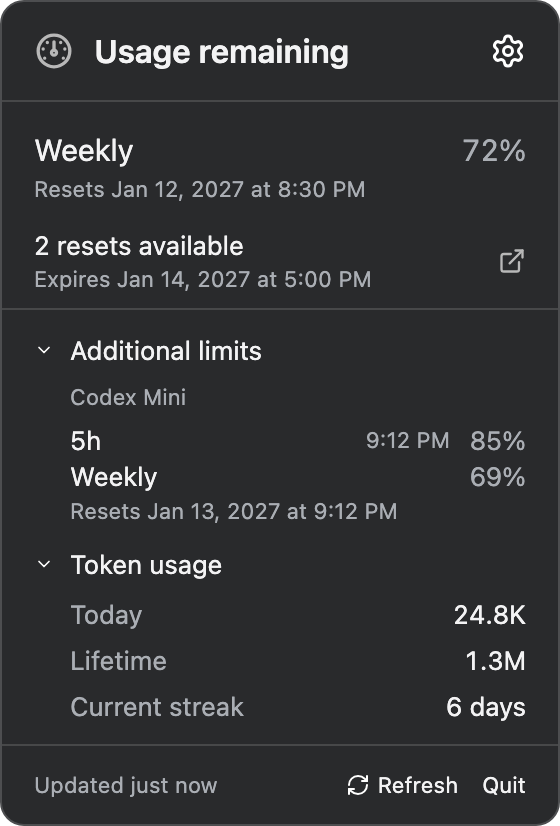
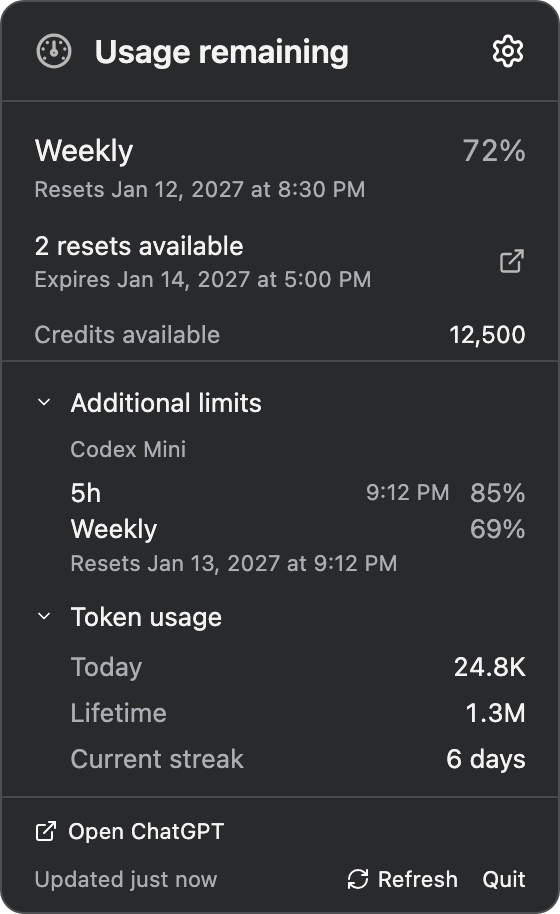
Refresh Pages previews for 1.0.35

diff --git a/Artwork/Screenshots/demo-source.html b/Artwork/Screenshots/demo-source.html
@@ -1,0 +1,121 @@
+<!doctype html>
+<html lang="en">
+<meta charset="utf-8">
+<title>ChatGPT Usage illustrative screenshots</title>
+<style>
+  * { box-sizing: border-box; }
+  body { margin: 24px; background: transparent; font-family: -apple-system, BlinkMacSystemFont, "Segoe UI", sans-serif; }
+  .shot { margin-bottom: 24px; overflow: hidden; }
+  .icon { display: inline-block; object-fit: contain; flex: none; }
+  .light-icon { filter: invert(1); }
+  .muted-icon { filter: invert(.72); }
+  .row { display: flex; align-items: center; }
+  .between { justify-content: space-between; }
+  .divider { height: 1px; background: #ffffff24; }
+
+  #macos-menu { zoom: 2; width: 280px; color: #f3f3f4; background: #292a2c; border: 1px solid #4d4e50; border-radius: 12px; font-size: 13px; }
+  .mac-header { height: 49px; padding: 0 16px; gap: 10px; font-size: 16px; font-weight: 600; }
+  .mac-header .settings { margin-left: auto; width: 18px; height: 18px; }
+  .mac-weekly { padding: 14px 16px 6px; }
+  .mac-weekly .row { font-size: 15px; line-height: 20px; }
+  .mac-weekly .muted { color: #aaaeb4; font-variant-numeric: tabular-nums; }
+  .mac-subline { margin-top: 3px; color: #aaaeb4; font-size: 11px; }
+  .mac-reset { padding: 8px 16px; font-size: 13px; }
+  .mac-reset .subline { margin-top: 3px; color: #aaaeb4; font-size: 11px; }
+  .mac-credits { padding: 6px 16px; font-size: 12px; }
+  .mac-credits .label { color: #aaaeb4; }
+  .mac-details { padding: 11px 16px; }
+  .mac-section-title { display: flex; align-items: center; gap: 8px; font-size: 13px; line-height: 18px; }
+  .mac-section-title .icon { width: 10px; height: 10px; }
+  .mac-section-body { margin: 8px 0 0 18px; }
+  .mac-section-body .name { color: #aaaeb4; font-size: 11px; margin-bottom: 6px; }
+  .mac-limit-row { font-size: 13px; line-height: 18px; }
+  .mac-limit-row .secondary { color: #aaaeb4; margin-left: auto; font-size: 11px; }
+  .mac-limit-row .value { color: #aaaeb4; width: 38px; text-align: right; font-variant-numeric: tabular-nums; }
+  .mac-limit-reset { margin-top: 2px; color: #aaaeb4; font-size: 11px; }
+  .mac-token { margin-top: 11px; }
+  .mac-token .mac-section-body { display: grid; gap: 7px; }
+  .mac-token .row { line-height: 16px; }
+  .mac-token .label { color: #aaaeb4; }
+  .mac-token .value { font-variant-numeric: tabular-nums; }
+  .mac-footer { padding: 10px 16px; font-size: 11px; }
+  .mac-open { display: flex; align-items: center; gap: 5px; margin-bottom: 11px; }
+  .mac-open .icon { width: 12px; height: 12px; }
+  .mac-footer-bottom { gap: 8px; }
+  .mac-footer .updated { color: #aaaeb4; white-space: nowrap; }
+  .mac-footer .actions { margin-left: auto; display: flex; align-items: center; gap: 12px; white-space: nowrap; }
+  .mac-footer .refresh { display: flex; align-items: center; gap: 4px; }
+  .mac-footer .refresh .icon { width: 12px; height: 12px; }
+
+  #windows-popup { zoom: 2; width: 330px; padding: 18px; color: #f0f1f4; background: #14171d; border: 1px solid #414650; border-radius: 14px; font-family: "Segoe UI", Arial, sans-serif; }
+  .win-header { gap: 10px; margin-bottom: 14px; font-size: 18px; font-weight: 600; }
+  .win-header .settings { width: 18px; height: 18px; margin-left: auto; }
+  .win-weekly { margin-bottom: 12px; }
+  .win-weekly .row { font-size: 17px; }
+  .win-weekly .percent { color: #b4b8c0; font-variant-numeric: tabular-nums; }
+  .win-weekly .subline { margin-top: 3px; color: #858b96; font-size: 13px; }
+  .win-reset { padding: 5px 0; font-size: 16px; }
+  .win-reset .subline { margin-top: 2px; color: #858b96; font-size: 12px; }
+  .win-credits { padding: 7px 0 0; font-size: 13px; }
+  .win-credits .label { color: #b4b8c0; }
+  .win-section-divider { height: 1px; margin: 12px 0 8px; background: #414650; }
+  .win-section-title { gap: 7px; font-size: 16px; }
+  .win-section-title .icon { width: 14px; height: 14px; }
+  .win-section-body { margin: 8px 0 0 18px; }
+  .win-section-body .name { color: #b4b8c0; font-size: 13px; font-weight: 600; margin-bottom: 7px; }
+  .win-section-body .row { font-size: 14px; line-height: 20px; }
+  .win-section-body .secondary { color: #b4b8c0; margin-left: auto; font-size: 12px; }
+  .win-section-body .value { width: 46px; text-align: right; font-weight: 600; font-variant-numeric: tabular-nums; }
+  .win-section-body .reset { margin-top: 2px; color: #858b96; font-size: 12px; }
+  .win-token { margin-top: 10px; }
+  .win-token .win-section-body { display: grid; gap: 4px; }
+  .win-token .label { color: #b4b8c0; }
+  .win-token .value { font-size: 13px; font-weight: 400; }
+  .win-open { display: flex; align-items: center; gap: 5px; margin-top: 16px; font-size: 12px; }
+  .win-open .icon { width: 14px; height: 14px; }
+  .win-footer { border-top: 1px solid #414650; margin-top: 14px; padding-top: 10px; gap: 10px; font-size: 11px; }
+  .win-footer .updated { color: #858b96; }
+  .win-footer .actions { margin-left: auto; display: flex; align-items: center; gap: 12px; color: #e6e8ee; font-size: 12px; }
+  .win-footer .refresh { display: flex; gap: 5px; align-items: center; }
+  .win-footer .refresh .icon { width: 14px; height: 14px; }
+
+  #macos-menubar { zoom: 2; width: 120px; height: 28px; padding: 0 3px; display: flex; align-items: center; gap: 3px; color: #f7f7f7; background: #475d77; border-radius: 4px; font-family: -apple-system, BlinkMacSystemFont, sans-serif; font-size: 12px; font-weight: 500; font-variant-numeric: tabular-nums; }
+  #macos-menubar .icon { width: 18px; height: 18px; }
+  #macos-menubar .search { width: 12px; height: 12px; border: 1.5px solid #fff; border-radius: 50%; margin-left: auto; margin-right: 4px; position: relative; }
+  #macos-menubar .search::after { content: ""; position: absolute; width: 5px; height: 1.5px; background: #fff; transform: rotate(45deg); right: -4px; bottom: -2px; border-radius: 1px; }
+  #windows-widget { zoom: 2; width: 88px; height: 36px; padding: 4px 7px; display: flex; align-items: center; gap: 6px; color: white; background: #14171de8; border: 1px solid #59616e; border-radius: 7px; font-family: "Segoe UI", Arial, sans-serif; font-size: 18px; font-weight: 600; }
+  #windows-widget .icon { width: 20px; height: 20px; }
+</style>
+
+<section id="macos-menu" class="shot" aria-label="Mac sample usage popup">
+  <div class="mac-header row"><img class="icon muted-icon" width="20" height="20" src="../../CodexUsage/Assets.xcassets/UsageGauge.imageset/usage-gauge.svg" alt="">Usage remaining<img class="icon light-icon settings" src="../../CodexUsage/Assets.xcassets/LucideSettings.imageset/settings.svg" alt=""></div>
+  <div class="divider"></div>
+  <div class="mac-weekly"><div class="row between"><span>Weekly</span><span class="muted">72%</span></div><div class="mac-subline">Resets Jan 12, 2027 at 8:30 PM</div></div>
+  <div class="mac-reset row between"><div><div>2 resets available</div><div class="subline">Expires Jan 14, 2027 at 5:00 PM</div></div><img class="icon muted-icon" width="14" height="14" src="../../CodexUsage/Assets.xcassets/LucideExternalLink.imageset/external-link.svg" alt=""></div>
+  <div class="mac-credits row between"><span class="label">Credits available</span><span>12,500</span></div>
+  <div class="divider"></div>
+  <div class="mac-details">
+    <div class="mac-section-title"><img class="icon light-icon" src="../../CodexUsage/Assets.xcassets/LucideChevronDown.imageset/chevron-down.svg" alt="">Additional limits</div>
+    <div class="mac-section-body"><div class="name">Codex Mini</div><div class="mac-limit-row row"><span>5h</span><span class="secondary">9:12 PM</span><span class="value">85%</span></div><div class="mac-limit-row row between"><span>Weekly</span><span class="value">69%</span></div><div class="mac-limit-reset">Resets Jan 13, 2027 at 9:12 PM</div></div>
+    <div class="mac-token"><div class="mac-section-title"><img class="icon light-icon" src="../../CodexUsage/Assets.xcassets/LucideChevronDown.imageset/chevron-down.svg" alt="">Token usage</div><div class="mac-section-body"><div class="row between"><span class="label">Today</span><span class="value">24.8K</span></div><div class="row between"><span class="label">Lifetime</span><span class="value">1.3M</span></div><div class="row between"><span class="label">Current streak</span><span class="value">6 days</span></div></div></div>
+  </div>
+  <div class="divider"></div>
+  <div class="mac-footer"><div class="mac-open"><img class="icon light-icon" src="../../CodexUsage/Assets.xcassets/LucideExternalLink.imageset/external-link.svg" alt="">Open ChatGPT</div><div class="mac-footer-bottom row"><span class="updated">Updated just now</span><span class="actions"><span class="refresh"><img class="icon light-icon" src="../../CodexUsage/Assets.xcassets/LucideRefresh.imageset/refresh-cw.svg" alt="">Refresh</span><span>Quit</span></span></div></div>
+</section>
+
+<section id="windows-popup" class="shot" aria-label="Windows sample usage popup">
+  <div class="win-header row"><img class="icon muted-icon" width="24" height="24" src="../../CodexUsage/Assets.xcassets/UsageGauge.imageset/usage-gauge.svg" alt="">Usage remaining<img class="icon muted-icon settings" src="../../CodexUsage/Assets.xcassets/LucideSettings.imageset/settings.svg" alt=""></div>
+  <div class="win-weekly"><div class="row between"><span>Weekly</span><span class="percent">72%</span></div><div class="subline">Resets Jan 12, 2027, 8:30 PM</div></div>
+  <div class="win-reset row between"><div><div>2 resets available</div><div class="subline">Expires Jan 14, 2027, 5:00 PM</div></div><img class="icon muted-icon" width="14" height="14" src="../../CodexUsage/Assets.xcassets/LucideExternalLink.imageset/external-link.svg" alt=""></div>
+  <div class="win-credits row between"><span class="label">Credits available</span><span>12,500</span></div>
+  <div class="win-section-divider"></div>
+  <div class="win-section-title row"><img class="icon light-icon" src="../../CodexUsage/Assets.xcassets/LucideChevronDown.imageset/chevron-down.svg" alt="">Additional limits</div>
+  <div class="win-section-body"><div class="name">Codex Mini</div><div class="row"><span>5h</span><span class="secondary">9:12 PM</span><span class="value">85%</span></div><div class="row between"><span>Weekly</span><span class="value">69%</span></div><div class="reset">Resets Jan 13, 2027, 9:12 PM</div></div>
+  <div class="win-token"><div class="win-section-title row"><img class="icon light-icon" src="../../CodexUsage/Assets.xcassets/LucideChevronDown.imageset/chevron-down.svg" alt="">Token usage</div><div class="win-section-body"><div class="row between"><span class="label">Today</span><span class="value">24.8K</span></div><div class="row between"><span class="label">Lifetime</span><span class="value">1.3M</span></div><div class="row between"><span class="label">Current streak</span><span class="value">6 days</span></div></div></div>
+  <div class="win-open"><img class="icon light-icon" src="../../CodexUsage/Assets.xcassets/LucideExternalLink.imageset/external-link.svg" alt="">Open ChatGPT</div>
+  <div class="win-footer row between"><span class="updated">Updated just now</span><span class="actions"><span class="refresh"><img class="icon light-icon" src="../../CodexUsage/Assets.xcassets/LucideRefresh.imageset/refresh-cw.svg" alt="">Refresh</span><span>Quit</span></span></div>
+</section>
+
+<section id="macos-menubar" class="shot" aria-label="Mac sample menu bar item"><img class="icon light-icon" src="../../CodexUsage/Assets.xcassets/ChatGPTMenuBarIcon.imageset/ChatGPTMenuBarIcon@2x.png" alt=""><span>72%</span><span class="search" aria-hidden="true"></span></section>
+<section id="windows-widget" class="shot" aria-label="Windows sample widget"><img class="icon light-icon" src="../../CodexUsage/Assets.xcassets/ChatGPTMenuBarIcon.imageset/ChatGPTMenuBarIcon@2x.png" alt=""><span>72%</span></section>
+</html>

diff --git a/docs/index.html b/docs/index.html
@@ -49,24 +49,24 @@
       </div>
       <div class="hero-art" aria-label="Example of the Mac usage menu and Windows widget">
         <div class="art-heading"><span>THE NUMBERS YOU NEED</span><span aria-hidden="true">↗</span></div>
-        <img class="menu-preview" src="assets/macos-menu.png" width="280" height="413" alt="Illustrative Mac popup showing sample weekly quota, reset credits, and expanded token usage">
-        <div class="widget-preview"><span>Also on Windows</span><img src="assets/windows-widget.png" width="88" height="36" alt="Windows desktop widget showing a sample 72% remaining"></div>
+        <img class="menu-preview" src="assets/macos-menu.png?v=1.0.35" width="280" height="457" alt="Illustrative Mac popup showing sample weekly quota, reset credits, usage credits, and expanded token usage">
+        <div class="widget-preview"><span>Also on Windows</span><img src="assets/windows-widget.png?v=1.0.35" width="88" height="36" alt="Windows desktop widget showing a sample 72% remaining"></div>
         <p class="art-caption">Example screens with sample usage.</p>
       </div>
     </section>
     <section class="overview wrap" aria-labelledby="overview-heading">
       <div><p class="eyebrow">LESS WINDOW SWITCHING</p><h2 id="overview-heading">Stay focused.<br> Keep usage in sight.</h2></div>
       <div class="feature-list">
-        <article><span class="feature-number" aria-hidden="true">01</span><div><h3>Know what’s remaining</h3><p>See your usage limits, when they reset, and available reset credits without opening the dashboard.</p></div></article>
+        <article><span class="feature-number" aria-hidden="true">01</span><div><h3>Know what’s remaining</h3><p>See your usage limits, reset credits, and usage credits without opening the dashboard. A badge warns when eligible requests may use credits.</p></div></article>
         <article><span class="feature-number" aria-hidden="true">02</span><div><h3>Keep the details handy</h3><p>Expand Token usage for today’s totals, lifetime usage, and your current streak. The app remembers your choice.</p></div></article>
-        <article><span class="feature-number" aria-hidden="true">03</span><div><h3>Fits your desktop</h3><p>A menu-bar item on Mac. A tray icon and movable percentage widget on Windows. Refresh and settings are always nearby.</p></div></article>
+        <article><span class="feature-number" aria-hidden="true">03</span><div><h3>Fits your desktop</h3><p>A menu-bar item on Mac. A tray icon and movable widget on Windows. Refresh, settings, and Open ChatGPT are always nearby.</p></div></article>
       </div>
     </section>
     <section class="preview-section" id="preview" aria-labelledby="preview-heading">
       <div class="wrap"><div class="section-heading"><div><p class="eyebrow">TWO PLATFORMS. ONE PURPOSE.</p><h2 id="preview-heading">At home on your desktop.</h2></div><p>Compact views of your Codex usage.<br> Sample data shown below.</p></div>
         <div class="platform-previews">
-          <figure><figcaption><span>macOS</span><span>In your menu bar</span></figcaption><div class="screenshot-stage"><img src="assets/macos-menu.png" width="280" height="413" loading="lazy" alt="Illustrative Mac usage menu with sample quota, reset credits, expanded additional limits and token usage"></div><img class="small-screenshot macos-menubar" src="assets/macos-menubar.png" width="120" height="28" loading="lazy" alt="Mac menu-bar item showing a sample 72% remaining beside Spotlight"></figure>
-          <figure><figcaption><span>Windows</span><span>In your tray, on your desktop</span></figcaption><div class="screenshot-stage"><img src="assets/windows-popup.png" width="330" height="440" loading="lazy" alt="Illustrative Windows usage popup with sample quota, reset credits, expanded additional limits and token usage"></div><img class="small-screenshot windows-widget" src="assets/windows-widget.png" width="88" height="36" loading="lazy" alt="Movable Windows widget showing a sample 72% remaining"></figure>
+          <figure><figcaption><span>macOS</span><span>In your menu bar</span></figcaption><div class="screenshot-stage"><img src="assets/macos-menu.png?v=1.0.35" width="280" height="457" loading="lazy" alt="Illustrative Mac usage menu with sample quota, reset credits, usage credits, additional limits, and token usage"></div><img class="small-screenshot macos-menubar" src="assets/macos-menubar.png?v=1.0.35" width="120" height="28" loading="lazy" alt="Mac menu-bar item showing a sample 72% remaining beside Spotlight"></figure>
+          <figure><figcaption><span>Windows</span><span>In your tray, on your desktop</span></figcaption><div class="screenshot-stage"><img src="assets/windows-popup.png?v=1.0.35" width="330" height="493" loading="lazy" alt="Illustrative Windows usage popup with sample quota, reset credits, usage credits, additional limits, and token usage"></div><img class="small-screenshot windows-widget" src="assets/windows-widget.png?v=1.0.35" width="88" height="36" loading="lazy" alt="Movable Windows widget showing a sample 72% remaining"></figure>
         </div>
       </div>
     </section>

diff --git a/docs/styles.css b/docs/styles.css
@@ -192,9 +192,9 @@ h1 span {
   filter:drop-shadow(0 16px 22px #0003)
 }
 .widget-preview {
-  position:absolute;
-  bottom:57px;
-  right:-24px;
+  width:max-content;
+  max-width:100%;
+  margin:18px 0 0 auto;
   background:#e9efe9;
   border:1px solid #cad4cc;
   padding:13px 16px;
@@ -419,9 +419,6 @@ h3 {
   .hero-art {
     padding:20px
   }
-  .widget-preview {
-    right:-10px
-  }
   .hero-actions {
     gap:18px
   }
@@ -489,8 +486,6 @@ h3 {
     width:290px
   }
   .widget-preview {
-    right:12px;
-    bottom:49px;
     padding:11px 13px
   }
   .widget-preview img {

diff --git a/README.md b/README.md
@@ -1,117 +1,5 @@
-# ChatGPT Usage
+# ChatGPT Usage website branch
 
-> **Unsigned community software:** these downloads are not publisher-signed, and the Mac app is not notarized by Apple. Your operating system may warn or block installation. This project provides no guarantee that a download is safe. Only proceed if you trust the source and have verified the file. Read [Unsigned installation and security warnings](UNSIGNED-INSTALL.txt) for the app-specific **Open Anyway** (Mac) and **More info → Run anyway** (Windows) steps. Do not disable system-wide security protections.
+GitHub Pages publishes the site from [`docs/`](docs/) on this branch.
 
-A lightweight macOS menu-bar and Windows tray companion for viewing Codex usage. Both apps show the remaining weekly percentage and reset date, available reset credits and their expiration, extra model limits, token totals, refresh controls, and a direct link to the ChatGPT usage dashboard.
-
-On macOS, click the menu-bar item to open the usage menu or double-click it to open the ChatGPT desktop app. On Windows, the percentage stays visible in a floating widget near the clock; click the widget or tray icon to open the full usage popup, or drag the widget wherever you prefer. Its position is remembered, and **Reset widget position** in the tray menu returns it to the bottom-right corner.
-
-This is an unofficial local companion and is not distributed by OpenAI.
-
-The apps launch a local `codex app-server` process and reuse Codex's existing ChatGPT sign-in. They do not read, copy, or store authentication tokens.
-
-## Screenshots
-
-<table align="center">
-  <tr>
-    <th>macOS menu</th>
-    <th>Windows popup</th>
-  </tr>
-  <tr>
-    <td align="center" valign="top"><img src="Artwork/Screenshots/macos-menu.png" alt="Expanded macOS ChatGPT Usage menu showing demo usage percentages, reset times, additional limits, and token usage" width="280"></td>
-    <td align="center" valign="top"><img src="Artwork/Screenshots/windows-popup.png" alt="Expanded Windows ChatGPT Usage popup showing usage percentages, reset dates, expanded additional limits and token usage, and refresh controls" width="280"></td>
-  </tr>
-  <tr>
-    <th>macOS menu bar</th>
-    <th>Windows widget</th>
-  </tr>
-  <tr>
-    <td align="center" valign="top"><img src="Artwork/Screenshots/macos-menubar.png" alt="macOS ChatGPT Usage menu-bar icon showing 86% remaining beside Spotlight" width="236"></td>
-    <td align="center" valign="top"><img src="Artwork/Screenshots/windows-widget.png" alt="Windows ChatGPT Usage floating widget showing a demo usage percentage" width="180"></td>
-  </tr>
-</table>
-
-## Download and install
-
-[Download the latest release](https://github.com/asetho/ChatGPT-Usage/releases/latest), including the matching `.sha256` file for your package.
-
-| Platform | Package | Requirements |
-| --- | --- | --- |
-| macOS | `ChatGPTUsage-<version>.dmg` | macOS 13 or later; Apple silicon or Intel |
-| Windows | `ChatGPTUsage-Setup-<version>.exe` | Windows 11, x64 |
-
-Both platforms require a working Codex CLI signed in to ChatGPT under the same user account. The macOS app can also use the CLI bundled with the ChatGPT desktop app.
-
-On macOS, **Settings** in the usage menu includes **Launch at login** and a **Choose…** option for selecting a Codex executable or the ChatGPT/Codex app. **Use Automatic** returns to automatic detection. If macOS requests approval for launch at login, select **Open Login Items** to finish enabling it.
-
-After a failed refresh, the apps retain the last successful percentage and mark it with `!`; the popup shows that the data is stale and when it was last updated. Optional token statistics do not prevent available quota data from appearing.
-
-**Plan compatibility:** the app does not restrict ChatGPT plan types; it displays the limits returned by the signed-in Codex CLI. Business, Enterprise, and Edu workspaces may use different seat allowances, workspace credits, spend controls, or reset windows, so their popup details can differ from Plus and Pro. This companion does not replace workspace billing or administration views.
-
-### macOS
-
-1. Download the DMG and its matching `.dmg.sha256` file.
-2. Verify the download from the directory containing both files:
-
-   ```sh
-   shasum -a 256 -c ChatGPTUsage-<version>.dmg.sha256
-   ```
-
-3. Open the DMG and copy **ChatGPT Usage** to Applications.
-4. Try opening the app once. If macOS blocks the unsigned app, follow the app-specific **Open Anyway** steps in [UNSIGNED-INSTALL.txt](UNSIGNED-INSTALL.txt). Do not disable Gatekeeper.
-
-### Windows
-
-1. Download the setup executable and its matching `.exe.sha256` file.
-2. Verify the download in PowerShell and compare the complete result with the checksum file:
-
-   ```powershell
-   Get-FileHash .\ChatGPTUsage-Setup-<version>.exe -Algorithm SHA256
-   ```
-
-3. Run the installer. If Codex CLI is missing, setup explains the requirement and offers to run OpenAI's current official installer. You can decline and install Codex yourself.
-4. Sign in to Codex separately if needed. The companion launches after setup and starts automatically when you sign in to Windows.
-
-For platform-specific unsigned-app warnings and checksum guidance, read [UNSIGNED-INSTALL.txt](UNSIGNED-INSTALL.txt). A matching checksum detects a mismatched download; it is not a publisher signature or malware scan.
-
-## Privacy and limitations
-
-The optional Windows Codex installation downloads and runs OpenAI's current installer over HTTPS, so its contents can change independently of this app. Only set `CODEX_EXECUTABLE` to a binary you trust.
-
-Both apps check this repository's latest published GitHub release at launch and every 12 hours while running. When a newer version has matching packages and checksums, choose **Update now** to download, verify, install, and reopen the app. The Mac app must be in a writable Applications folder; Windows must have been installed with this project's installer. Updates preserve app settings and sign-in state. **View release** is available for manual installation; failed update checks are silent.
-
-Installation starts only when you choose **Update now**. Packages are checked against GitHub's SHA256 asset digests and the accompanying checksum file. These checks detect mismatched downloads; they do not verify a publisher signature. Normal macOS and Windows security approval may still be required. If a Mac update cannot launch, the helper restores the previous app. Existing versions without **Update now** need one manual installation of a build containing this feature.
-
-See [Privacy](PRIVACY.md) for local data and subprocess behavior, and [Security](SECURITY.md) for reporting concerns. The app uses experimental Codex API capabilities; compatibility can change when Codex updates. Usage figures may be unavailable or stale and should be confirmed in the official dashboard.
-
-## Build from source
-
-### macOS
-
-```sh
-scripts/build-macos-dmg.sh
-```
-
-Requires Xcode and [XcodeGen](https://github.com/yonaskolb/XcodeGen). The script creates `dist/ChatGPTUsage-<version>.dmg` and its checksum.
-
-### Windows
-
-Run from PowerShell:
-
-```powershell
-scripts\build-windows-installer.ps1
-```
-
-Requires the .NET SDK 10.0.401 (or a newer 10.0.4xx patch) and Inno Setup 6. The script creates `Windows/dist/ChatGPTUsage-Setup-<version>.exe` and its checksum.
-
-### Versioning and packages
-
-`VERSION` is the release version for both platforms. The Windows build generates the executable and Start-menu icon from the same ChatGPT tray mark. Neither platform package has a verified publisher signature, and the Mac app is not notarized. The Mac bundle uses a local ad hoc signature for Login Items; this does not verify the publisher. No paid signing service or certificate is required by these scripts.
-
-The installation warning is included in the DMG and displayed before Windows setup installs the app. Build scripts normally retain the three newest packages and their checksums. To preserve existing packages during local verification, use `KEEP_OLD_PACKAGES=1 scripts/build-macos-dmg.sh` or `scripts\build-windows-installer.ps1 -KeepOldPackages`.
-
-Before publishing, follow the [release checklist](RELEASE-CHECKLIST.md). Building locally does not publish a release.
-
-## License
-
-The project source is available under the [MIT License](LICENSE), copyright 2026 `asetho™`. See the [trademark notice](TRADEMARKS.md) for `asetho` branding, third-party marks, and legal information. The license covers only material the copyright holder has authority to license; third-party names, trademarks, and artwork remain subject to their respective owners' rights.
+For the current app source, installation instructions, and release process, see [`main`](https://github.com/asetho/ChatGPT-Usage/tree/main). The [latest release](https://github.com/asetho/ChatGPT-Usage/releases/latest) has the current Mac and Windows downloads.

diff --git a/docs/README.md b/docs/README.md
@@ -10,7 +10,7 @@ Keep the Google site-verification meta tag in `index.html` so Search Console own
 remains verified. The sitemap contains the canonical homepage URL. Download links use
 GitHub's latest-release page so they remain current without a website release.
 
-The screenshots are illustrative 1.0.29 views with sample usage. Their editable
-source is `Artwork/Screenshots/demo-source.html` on `main`; the rendered PNGs are
-copied to this branch's `docs/assets`. Keep Mac signing and notarization status
-distinct from the unsigned Windows installer.
+The screenshots are illustrative 1.0.35 views with sample usage. Their editable
+source is `Artwork/Screenshots/demo-source.html` on this branch; the rendered PNGs
+are in `docs/assets`. Keep Mac signing and notarization status distinct from the
+unsigned Windows installer.
